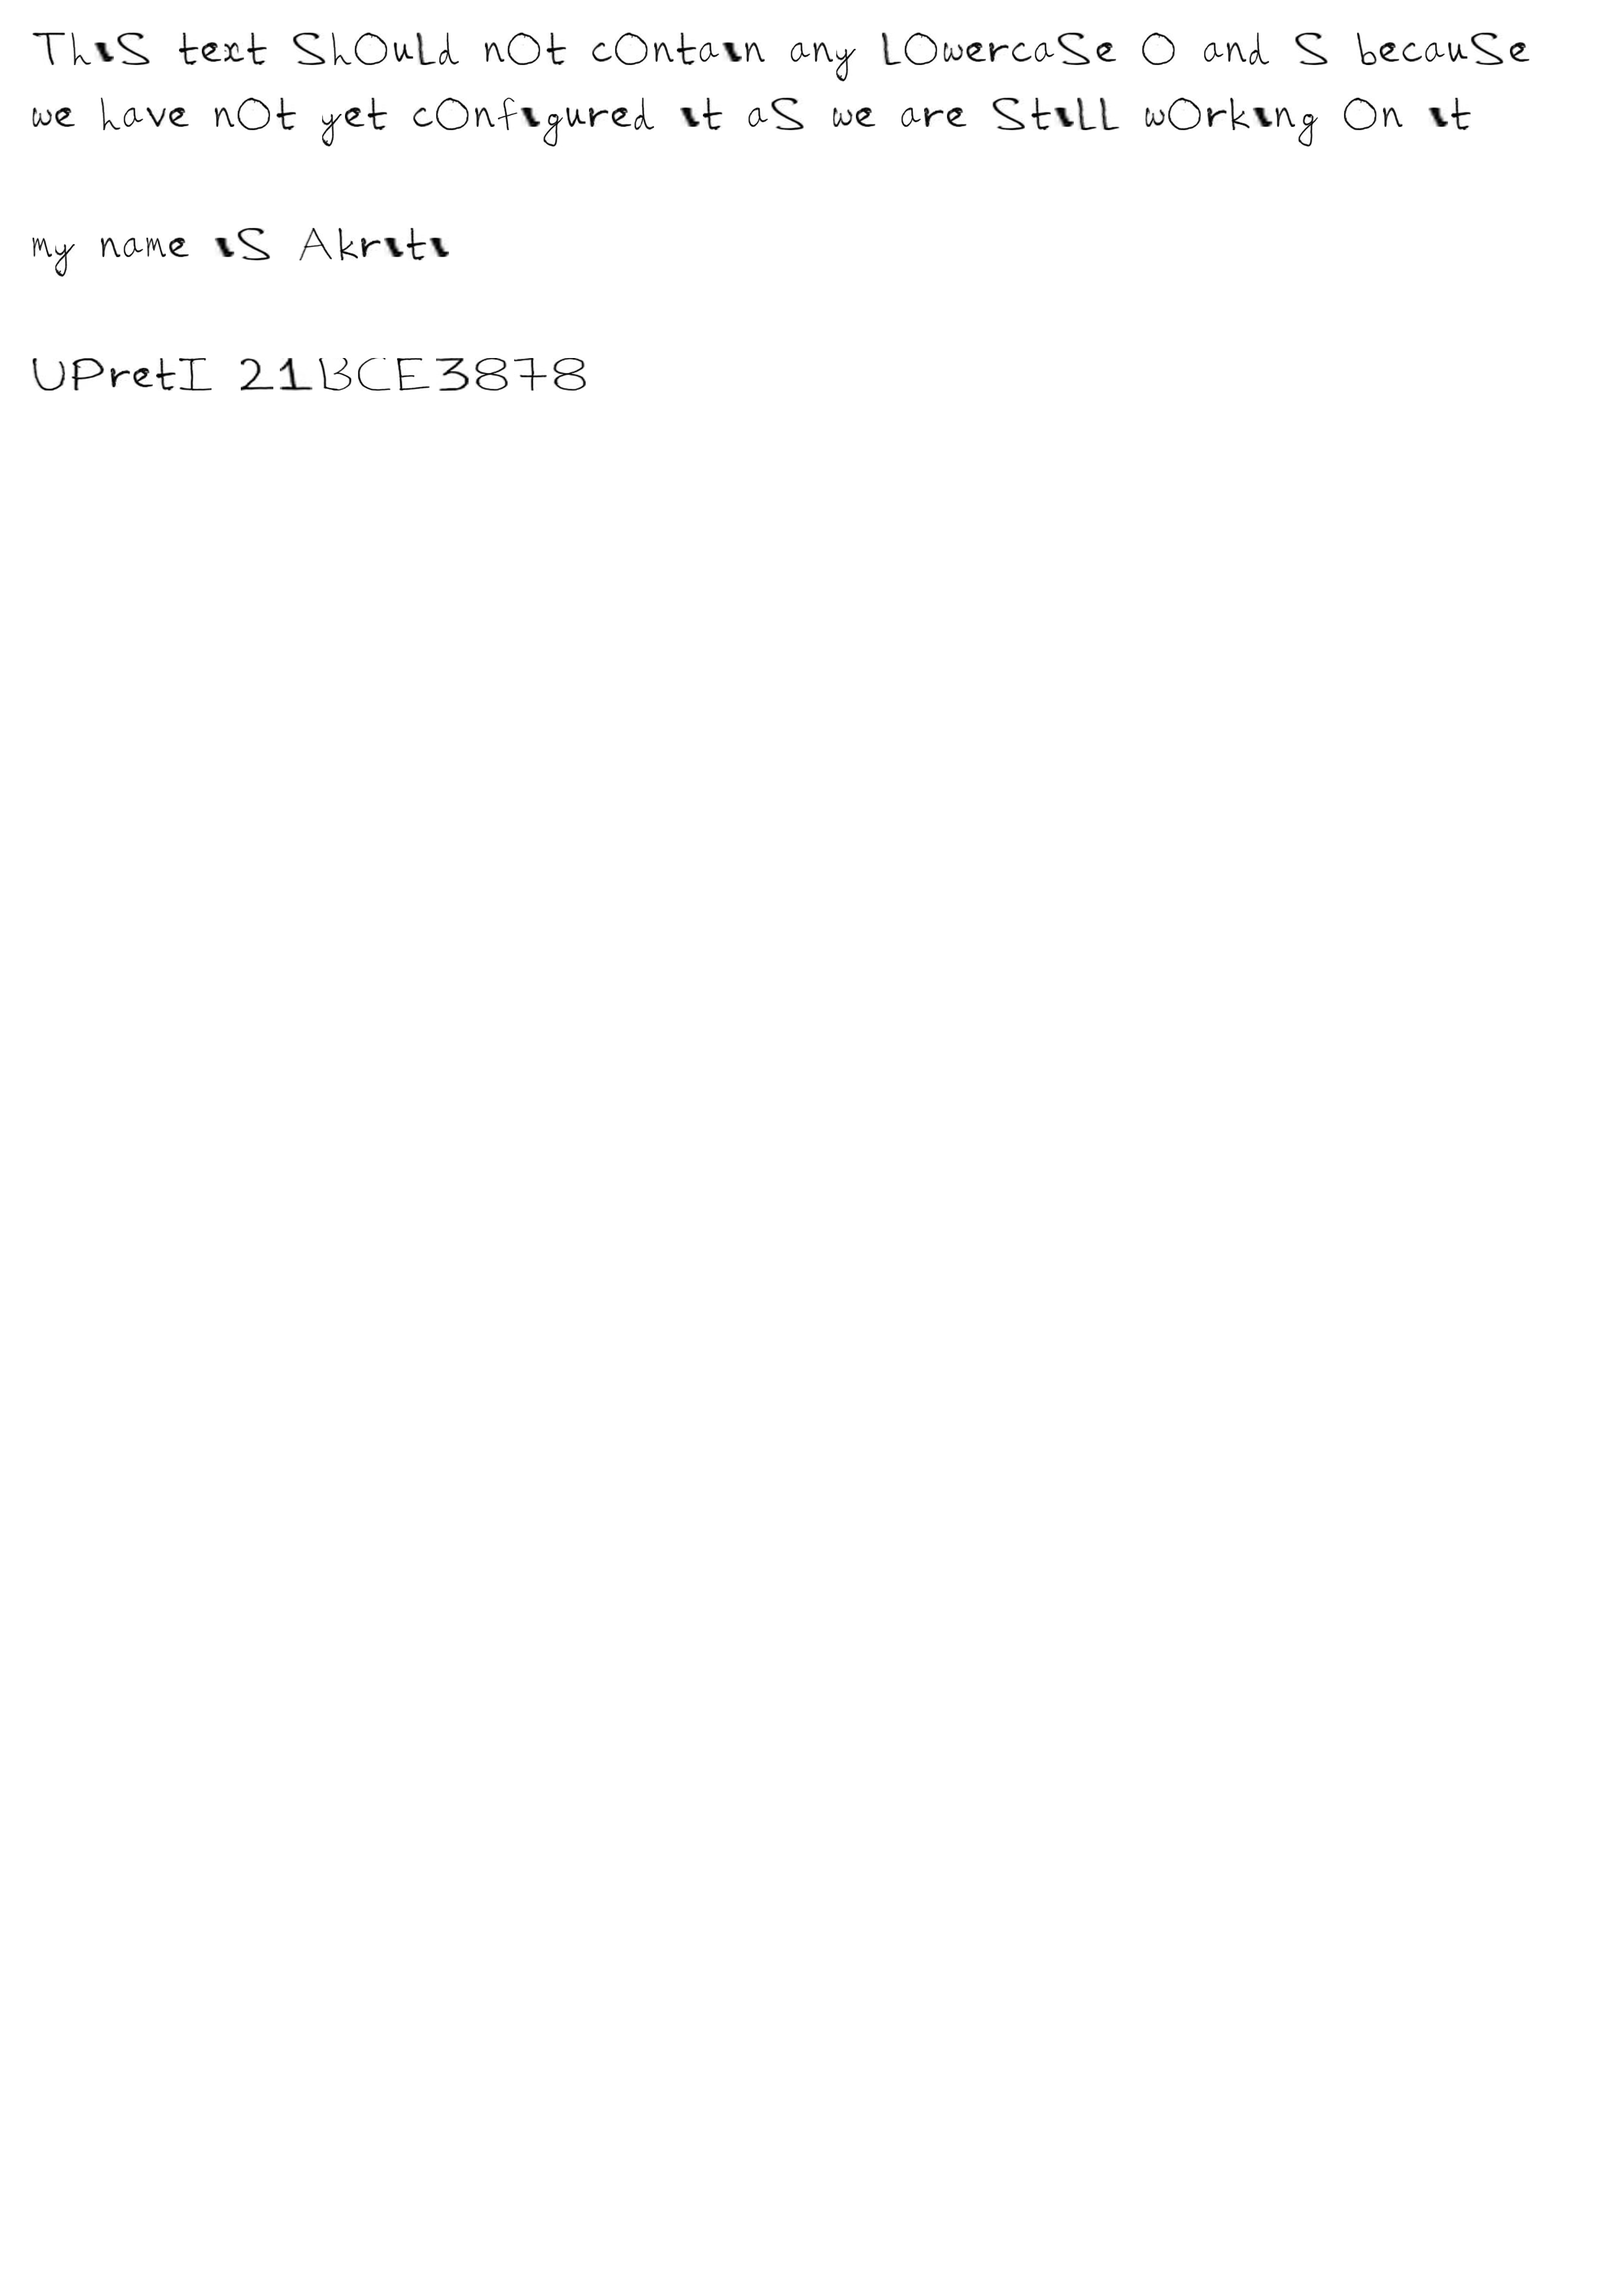
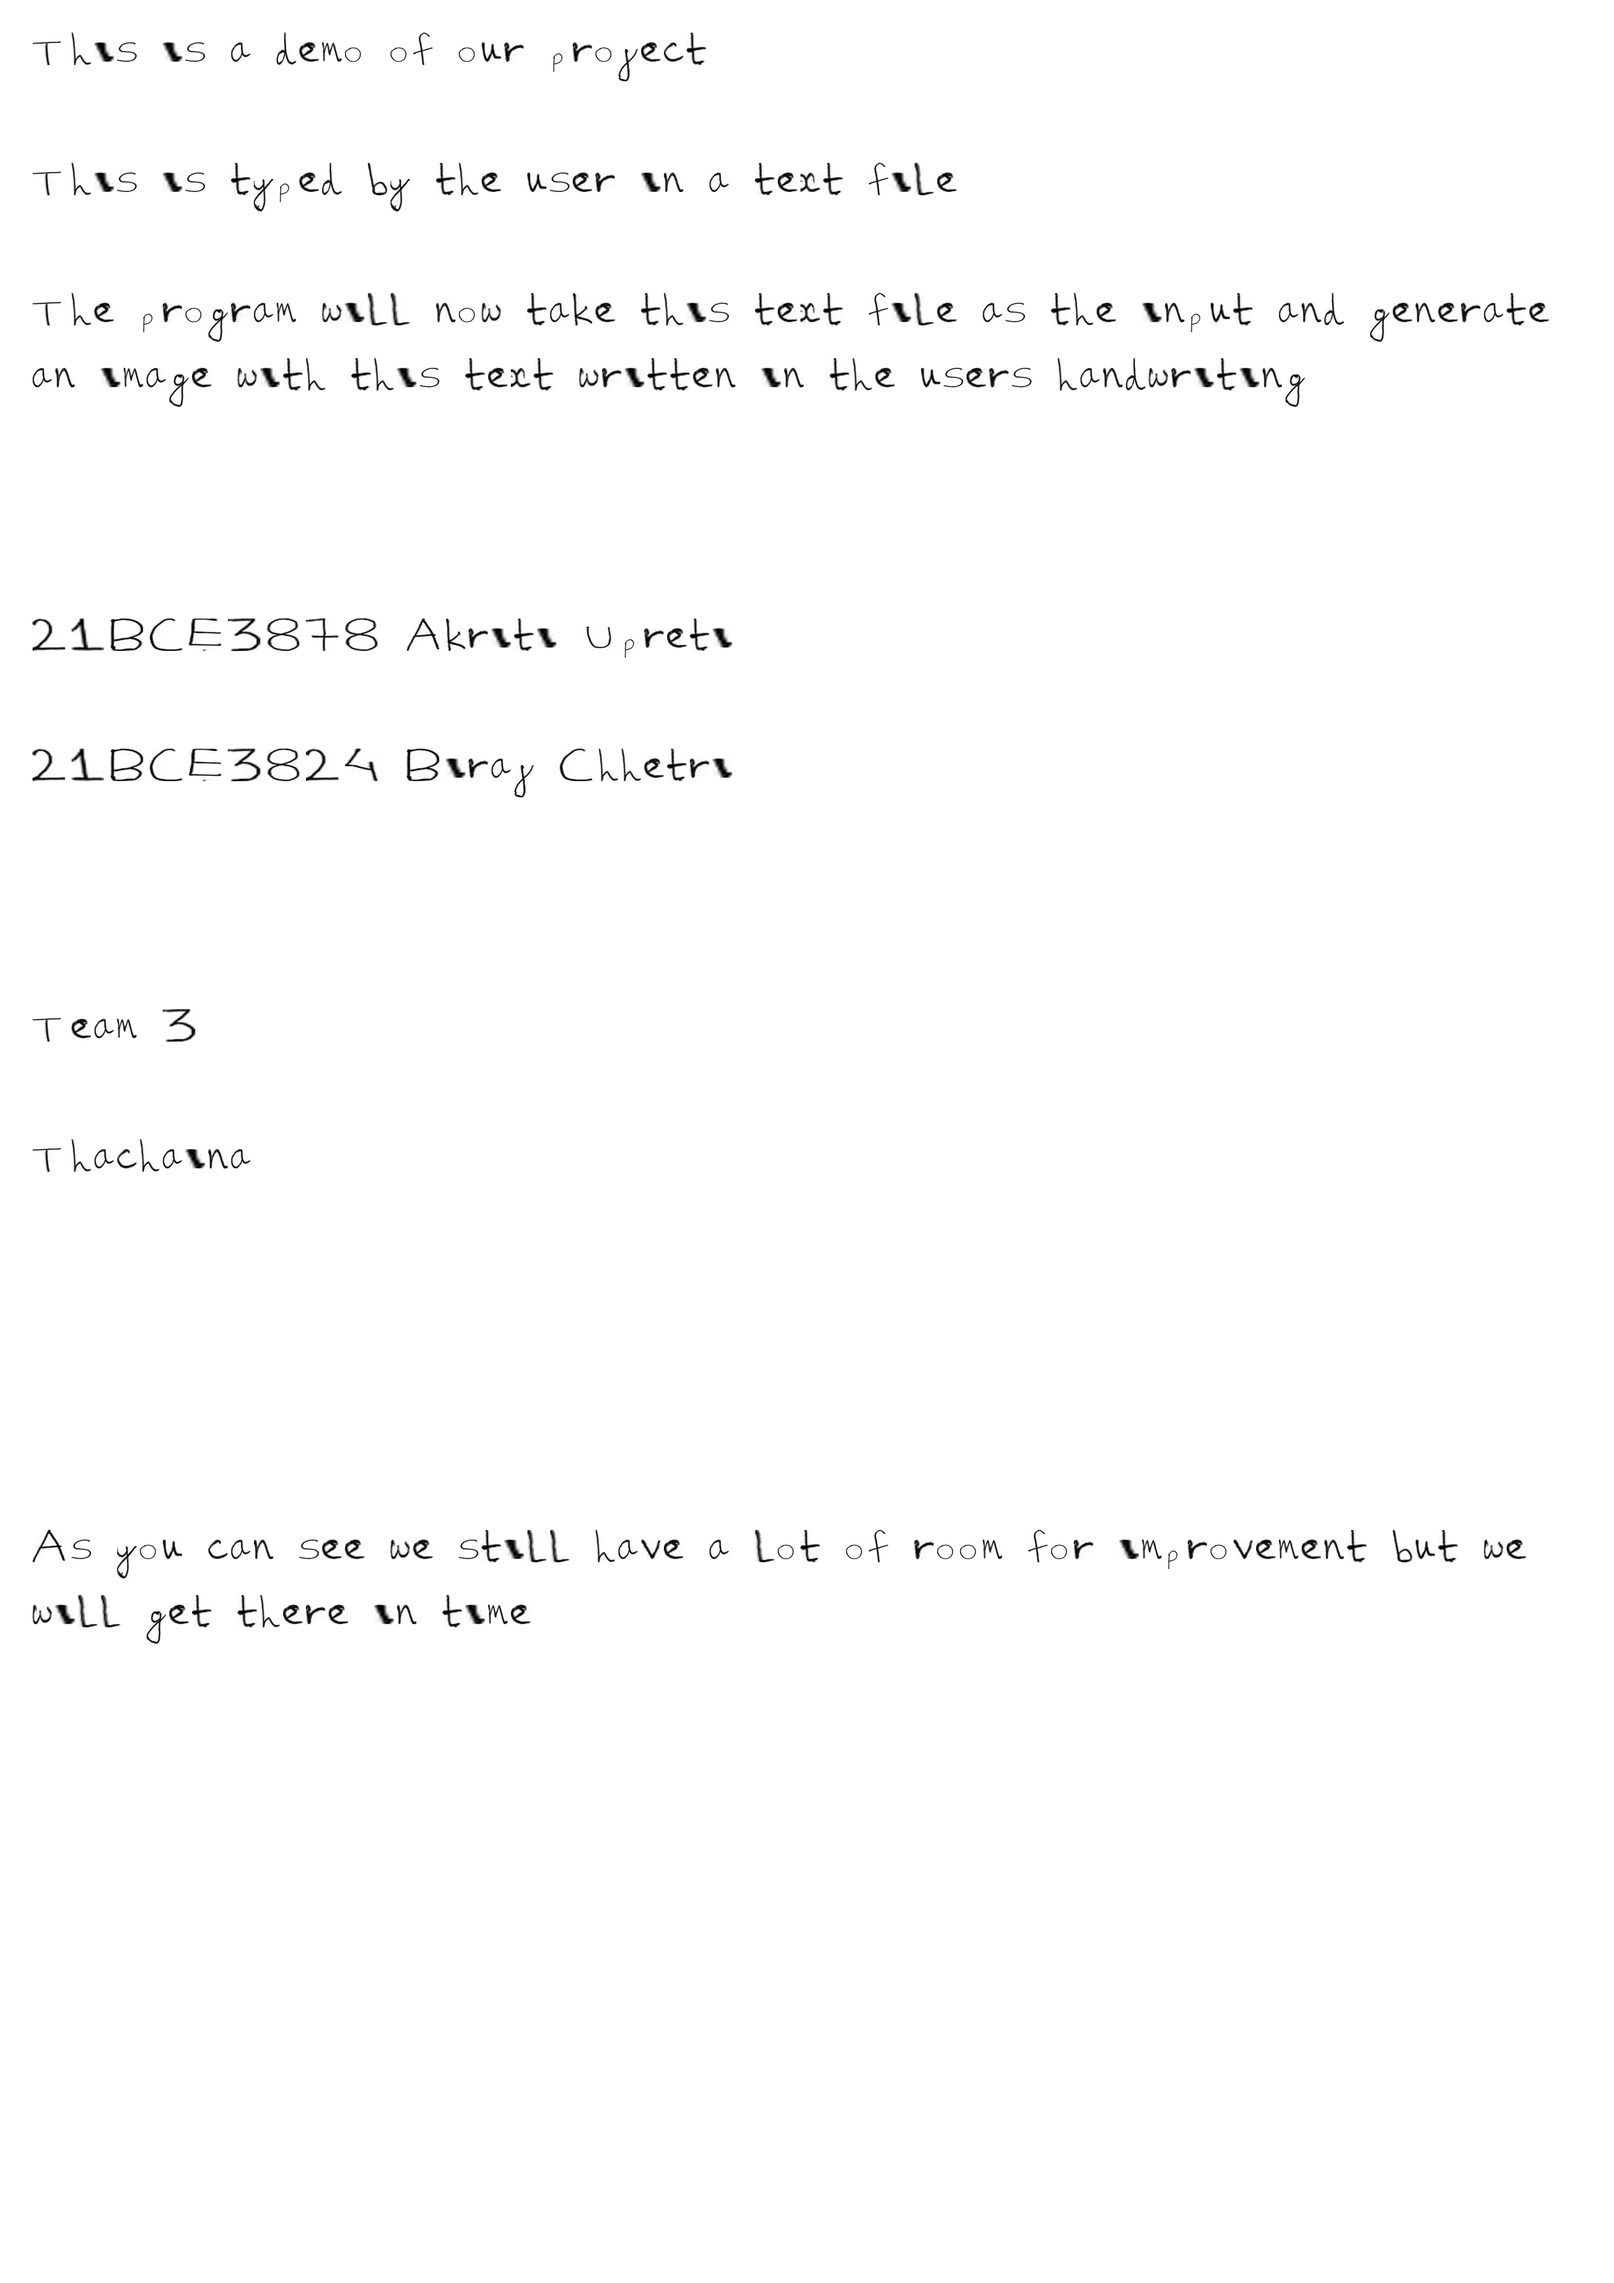
Main code in main.py

diff --git a/main.py b/main.py
@@ -1,31 +1,125 @@
-import pytesseract
 import cv2
 import numpy as np
-import os
+from PIL import Image, ImageDraw, ImageFont
 
+characters = "ABCDEFGHIJKLMNOPQRSTUVWXYZabcdefghijklmnopqrstuvwxyz0123456789"
+tallchars = "tlbfhkd"
+botchars = "jgypq"
+alphabet_images = {}
 
-image = cv2.imread("test.png")
+for char in characters:
+    if char.islower():
+        alphabet_images[char + "_lower"] = Image.open("Characters/" + char + "_lower.jpg")
+    else:
+        alphabet_images[char] = Image.open("Characters/" + char + ".jpg")
 
-text = pytesseract.image_to_boxes(image).split('\n')
-for x in range(len(text)):
-    text[x] = text[x].split()
+alphabet_images[" "] = Image.open("Characters/space.jpg")
 
-print(text)
-height, width, _ = image.shape
+# Define the dimensions of each alphabet image
+alphabet_image_width_upper = 50
+alphabet_image_height_upper = 50
 
+alphabet_image_width_lower = 30
+alphabet_image_height_lower = 30
+
+# Define the spacing between each alphabet image
+horizontal_spacing = 20
+vertical_spacing = 10
+
+# Calculate the dimensions of the final combined image
+output_width = 2480
+output_height = 3507
+
+left_margin = 30
+right_margin = 30
+top_margin = 30
+bottom_margin = 20
+
+''' 
+output_width = (alphabet_image_width_upper + horizontal_spacing) * len(user_text)
+output_height = alphabet_image_height
 '''
-a = text[0]
-x, y, w, h = int(a[1]), int(a[2]), int(a[3]), int(a[4])
-crop = image[x,y, x+w:y+h]
-cv2.imshow('img',crop)
-cv2.waitKey(0)
+# Create a blank canvas for the combined image
+combined_image = Image.new('RGB', (output_width, output_height), color='white')
+draw = ImageDraw.Draw(combined_image)
 
-for i in range(len(text)-1):
-    a = text[i]
-    x, y, w, h = int(a[1]), int(a[2]), int(a[3]), int(a[4])
-    cv2.rectangle(image, (x,height-y), (w, height-h), (50,50,255), 1)
+# Iterate over each character in the user's input text
 
-cv2.imshow('image',image)
-cv2.waitKey(0)
-cv2.imwrite("gello", image)
-'''
+y_position = 50
+# User input text
+f = open("text.txt", "r")
+lines = f.readlines()
+for user_text in lines:
+    x_position = 50
+    sentence = user_text.split()
+    for char in sentence:
+        total = x_position
+        for each_char in char:
+            if each_char.islower():
+                total += alphabet_image_width_lower + horizontal_spacing
+            else:
+                total += alphabet_image_width_upper + horizontal_spacing
+
+        if total > 2430:  # limit to go to next line
+            y_position += alphabet_image_height_upper + 50
+            x_position = 50
+
+        for each_char in char:
+            lower = False
+            tall = False
+            bot = False
+            digit = False
+
+            if each_char.islower():
+                if each_char in tallchars:
+                    tall = True
+                elif each_char in botchars:
+                    bot = True
+                each_char += "_lower"
+                lower = True
+
+            # Retrieve the corresponding alphabet image for the character
+            alphabet_image = alphabet_images[each_char]
+
+            if alphabet_image:
+                # Resize the alphabet image to the desired dimensions
+                if lower:
+                    width = alphabet_image_width_lower
+
+                    if tall or bot:
+                        height = alphabet_image_height_upper
+                    else:
+                        height = alphabet_image_height_lower
+
+                else:
+                    width = alphabet_image_width_upper
+                    height = alphabet_image_height_upper
+
+                alphabet_image = alphabet_image.resize((width, height))
+
+                # Paste the alphabet image onto the combined image
+                if lower and not tall:
+                    if bot:
+                        combined_image.paste(alphabet_image, (x_position, y_position + 25))
+                    else:
+                        combined_image.paste(alphabet_image, (x_position, y_position + 15))
+                else:
+                    combined_image.paste(alphabet_image, (x_position, y_position))
+
+                if lower:
+                    horizontal_spacing = 5
+                else:
+                    horizontal_spacing = 10
+
+            # Update the x-position for the next alphabet image
+            x_position += width + horizontal_spacing
+
+        x_position += 35
+
+    y_position += (alphabet_image_height_upper + 50) * 2
+
+# Display the combined image
+
+combined_image.save("trial.png")
+combined_image.show()
+
